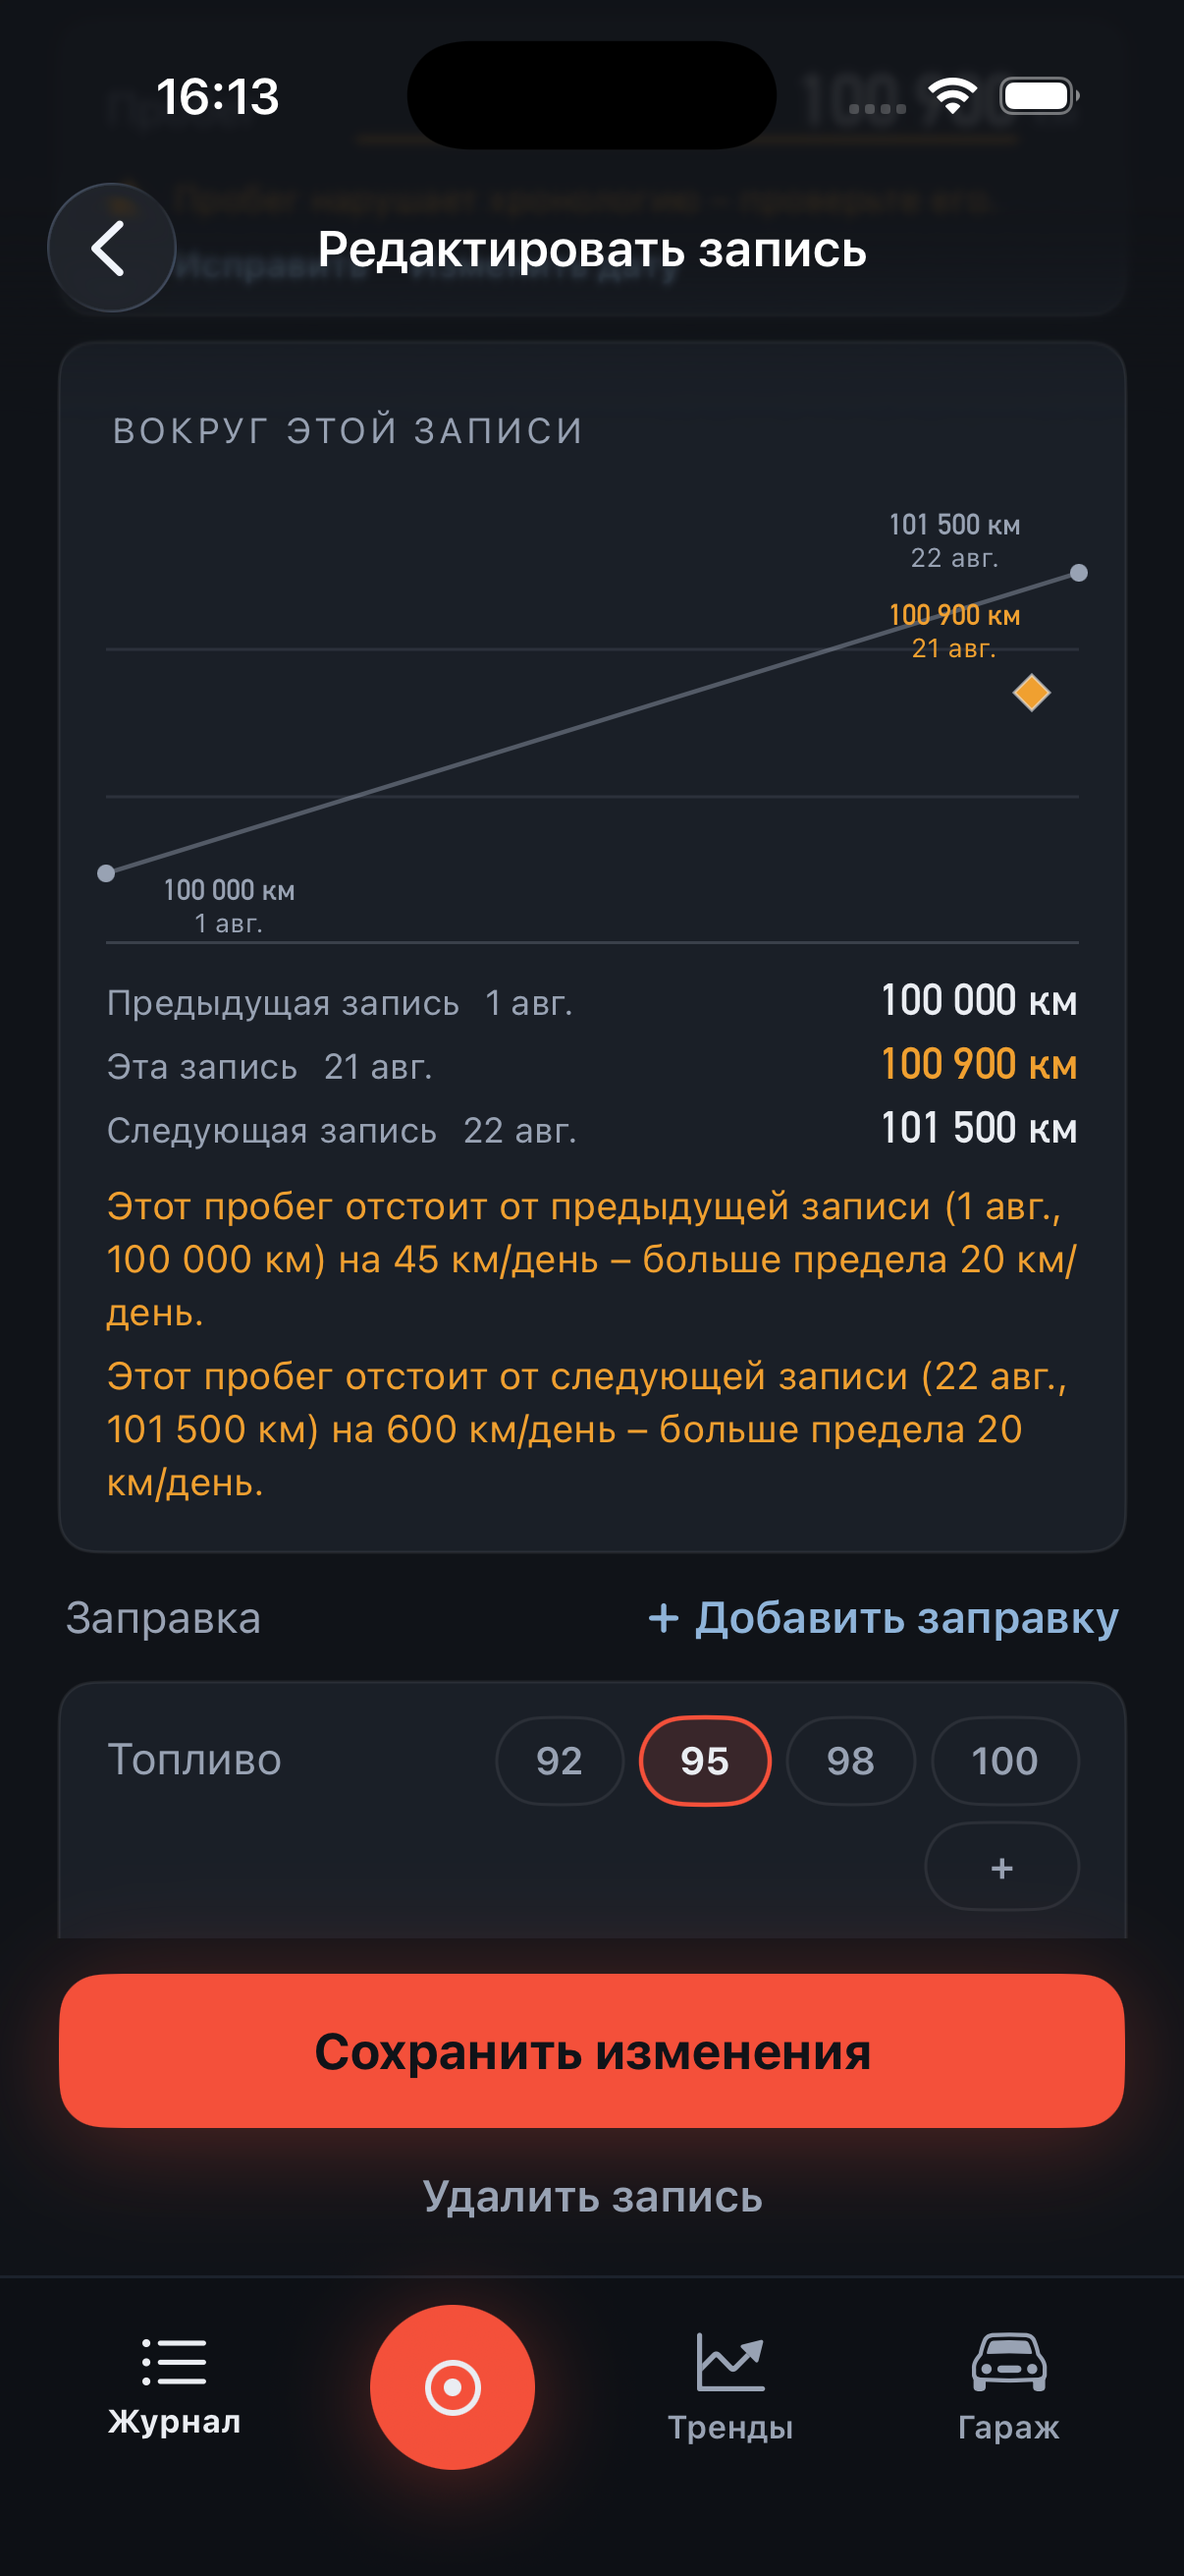
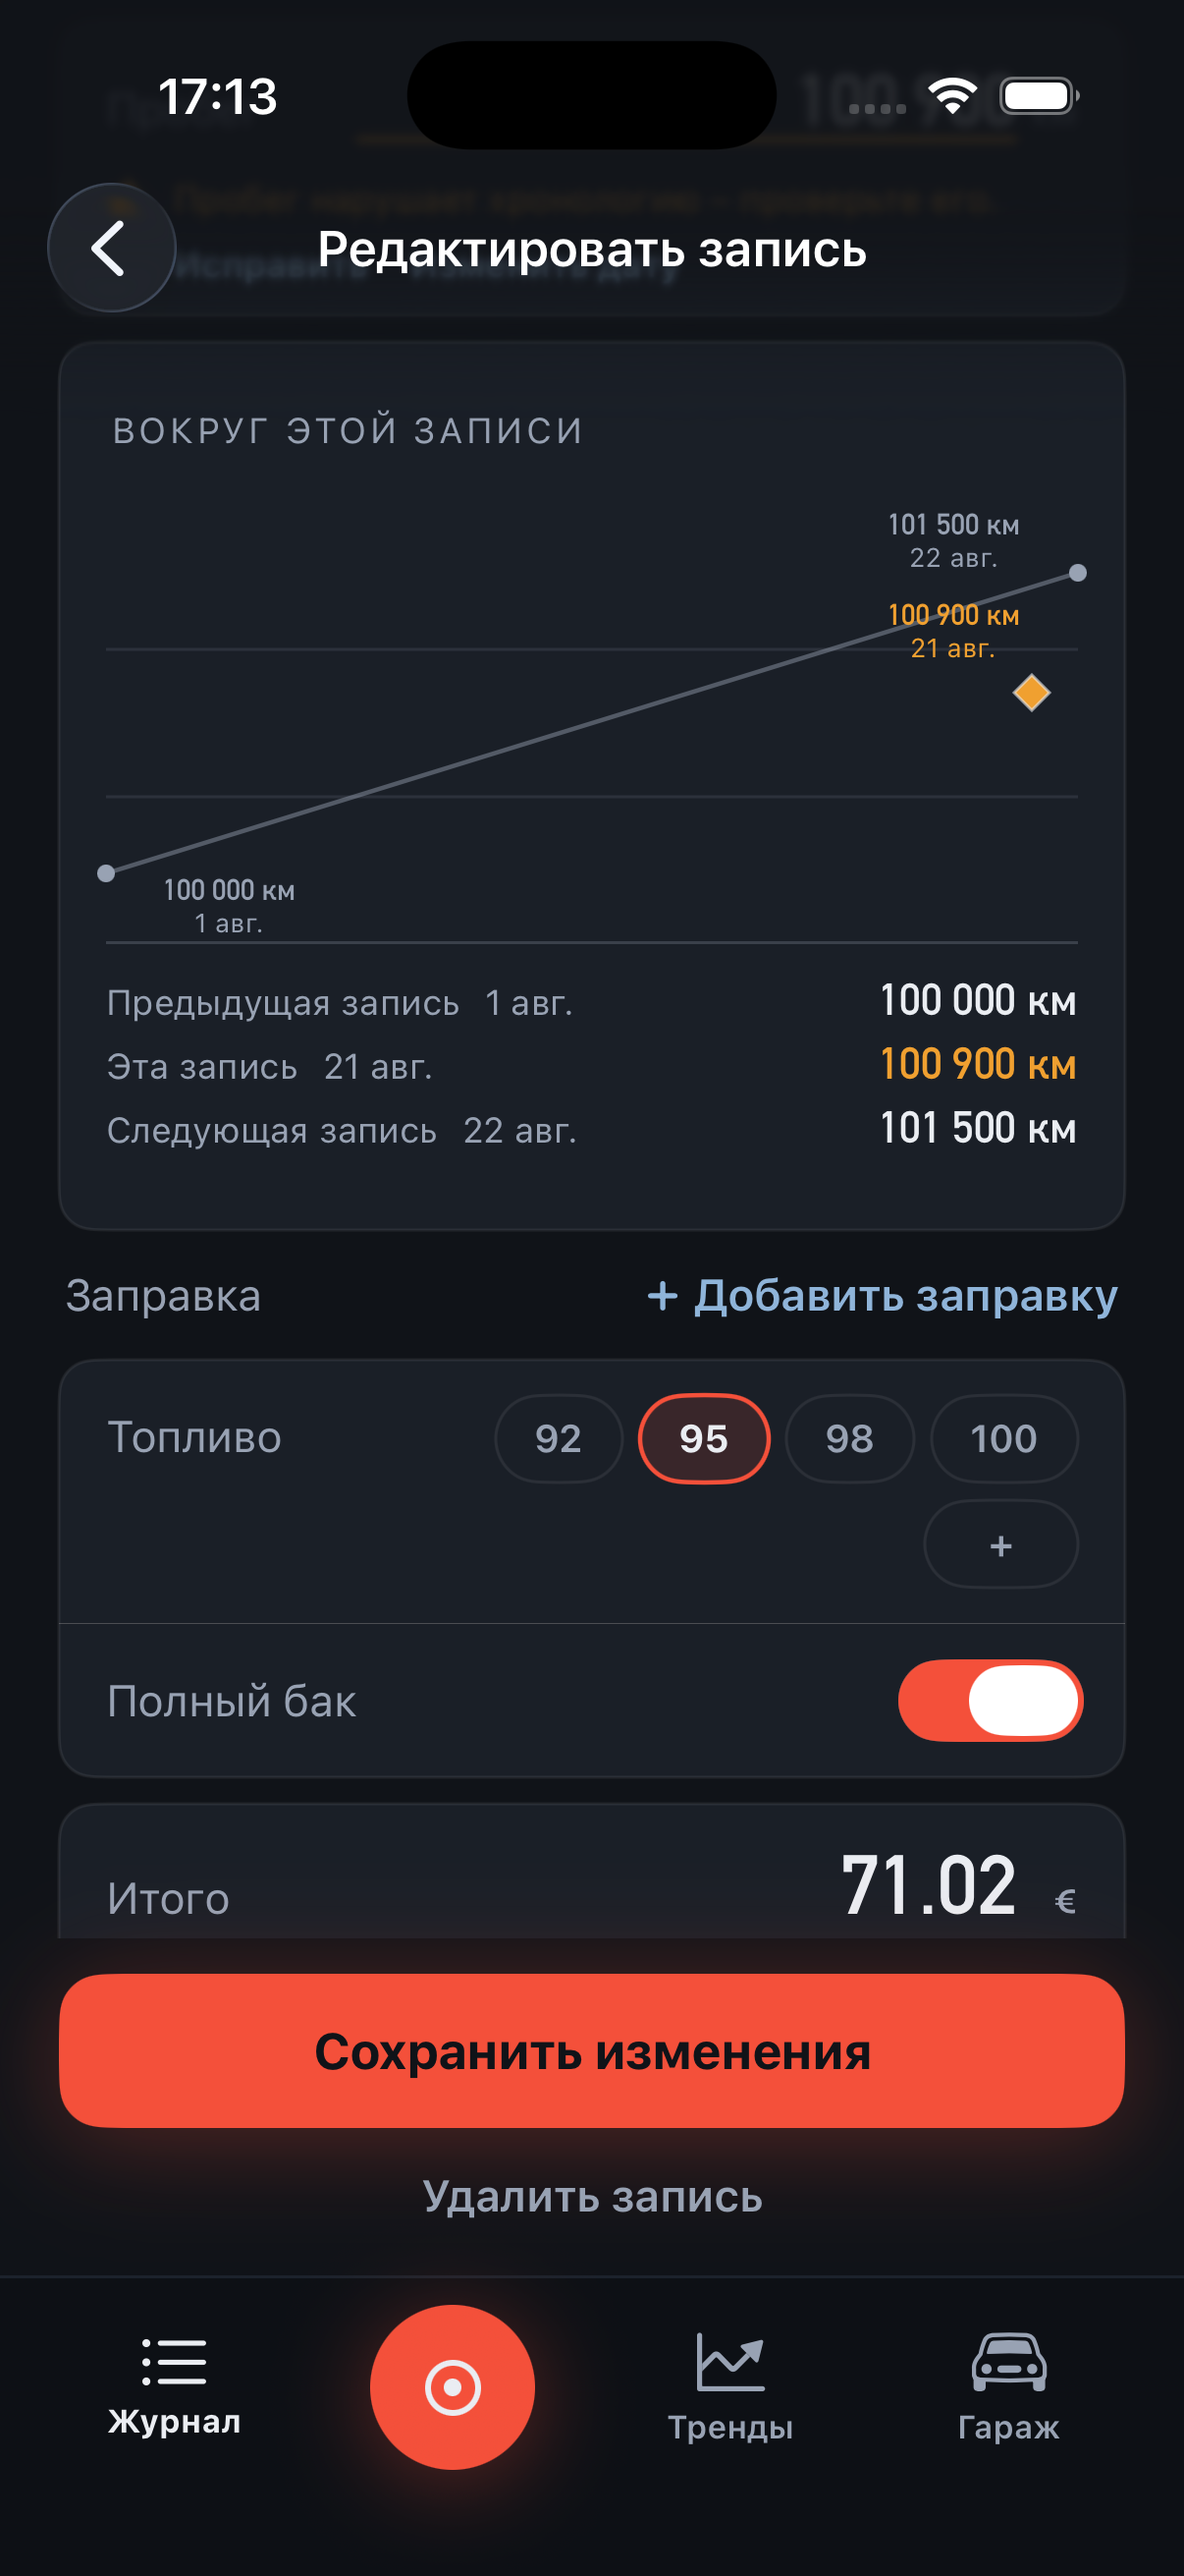
RV.188: the panel shows the chart and the numbers, not a paragraph about them
Product owner, pointing at the two amber sentences: remove these.

  "This reading is 45 km/day from the previous entry (Aug 1, 100 000 km)
   - over the 20 km/day limit."

That was the both-`.none` branch, and it restated in prose exactly what
the three bracket rows directly above it already say in figures. The
chart labels each point, the rows give previous / this / next with their
dates and readings, and the row's amber banner above the card carries the
next step (hard rule 7) - so the paragraph was the panel's bulk and none
of its meaning. On a phone it also pushed the entry's own fields off
screen.

Removing it made a whole pipeline dead, so that goes too rather than
sitting unread: TimelineNeighbourhood.Culprit, culprits(from:), both
sentence builders, and the seven catalogue keys behind them.

EditEntryNeighbourhoodUITests now asserts the ABSENCE of the two
statement identifiers - and that "This entry" and "Previous entry" are
still on screen - so re-adding the prose is a deliberate decision rather
than a drift.

This reverts the earlier label removal (3ba8933 reverted dd8f717): the
chart's point labels were the wrong thing to cut and are back.

Gates: swiftlint from root 0, app build 0,
EditEntryNeighbourhoodUITests 4/4, FlaggedEntriesUITests 10/10.
Screenshots EN+RU re-shot and opened.

diff --git a/ios/App/Sources/EditEntry/TimelineNeighbourhood.swift b/ios/App/Sources/EditEntry/TimelineNeighbourhood.swift
@@ -43,28 +43,6 @@ struct TimelineNeighbourhood: Equatable {
     let previous: Neighbour?
     /// The immediate next neighbour, nil when the entry is the newest.
     let next: Neighbour?
-    /// The failed comparisons the validator reported, each carrying the side it
-    /// failed against and the neighbour's facts. The card renders one sentence
-    /// per culprit: an empty range with two disagreeing neighbours has two
-    /// culprits, and naming them all is the decision (RV.188) - naming only the
-    /// first would hide the entry the user must actually fix.
-    let culprits: [Culprit]
-
-    /// One failed comparison, as the card needs to name the pair.
-    struct Culprit: Equatable {
-        let side: TimelineValidator.NeighbourSide
-        let neighbourDate: Date
-        let neighbourOdometer: Int
-        let reason: Reason
-
-        enum Reason: Equatable {
-            /// CHECK 1: the reading is out of order against this neighbour.
-            case order
-            /// CHECK 2: the implied pace against this neighbour is over the limit.
-            case pace(kmPerDay: Double, limit: Double)
-        }
-    }
-
     /// The point immediately before the offending one, when one exists.
     var previousPoint: Point? {
         guard let index = offendingIndex, index > 0 else { return nil }
@@ -143,41 +121,7 @@ extension ManualFillUpFormState {
             validRange: validRange,
             points: points,
             previous: behind.first,
-            next: ahead.first,
-            culprits: Self.culprits(from: validation.flags,
-                                    previous: behind.first, next: ahead.first))
-    }
-
-    /// Resolves each validator flag to the neighbour it failed against. A flag
-    /// whose side has no odometer-bearing neighbour is dropped rather than
-    /// guessed at (the validator only reports a side it actually walked).
-    private static func culprits(
-        from flags: [TimelineValidator.Flag],
-        previous: TimelineNeighbourhood.Neighbour?,
-        next: TimelineNeighbourhood.Neighbour?
-    ) -> [TimelineNeighbourhood.Culprit] {
-        flags.compactMap { flag in
-            switch flag.detail {
-            case .order(let side, _, _, _, _):
-                return culprit(side: side, previous: previous, next: next, reason: .order)
-            case .pace(let side, let kmPerDay, let limit):
-                return culprit(side: side, previous: previous, next: next,
-                               reason: .pace(kmPerDay: kmPerDay, limit: limit))
-            }
-        }
-    }
-
-    private static func culprit(
-        side: TimelineValidator.NeighbourSide,
-        previous: TimelineNeighbourhood.Neighbour?,
-        next: TimelineNeighbourhood.Neighbour?,
-        reason: TimelineNeighbourhood.Culprit.Reason
-    ) -> TimelineNeighbourhood.Culprit? {
-        let neighbour = side == .previous ? previous : next
-        guard let neighbour else { return nil }
-        return TimelineNeighbourhood.Culprit(
-            side: side, neighbourDate: neighbour.date,
-            neighbourOdometer: neighbour.odometer, reason: reason)
+            next: ahead.first)
     }
 }
 
@@ -262,50 +206,6 @@ enum TimelineNeighbourhoodSentences {
                               odometerText, lower)
             case (nil, nil):
                 return nil
-            }
-        }
-    }
-
-    /// Both sides `.none`: the neighbourhood itself is inconsistent, so neither
-    /// single field can be called out. One sentence instead of two, never a
-    /// blank panel.
-    static var inconsistentNeighbourhood: String {
-        L10n.localize("The entries around this one can't all be right – no odometer or date fits between them.")
-    }
-
-    /// One failed comparison, named: the entry and the neighbour it failed
-    /// against, with the numbers that failed. The `.none`-both case renders one
-    /// of these per culprit (RV.188) instead of the generic gesture, so the
-    /// user is told which pair to check. Full localised phrase per unit, never a
-    /// unit label spliced onto a shared stem (hard rule 10).
-    static func culprit(_ culprit: TimelineNeighbourhood.Culprit,
-                        unit: DistanceUnit) -> String {
-        let neighbourText = TimelineNeighbourhoodCard.bracketValue(
-            date: culprit.neighbourDate, odometer: culprit.neighbourOdometer, unit: unit)
-        switch culprit.reason {
-        case .order:
-            switch culprit.side {
-            case .previous:
-                return String(format: L10n.localize("This reading conflicts with the previous entry (%@)."),
-                              neighbourText)
-            case .next:
-                return String(format: L10n.localize("This reading conflicts with the next entry (%@)."),
-                              neighbourText)
-            }
-        case .pace(let kmPerDay, let limit):
-            let paceText = OdometerFormat.grouped(Int(kmPerDay.rounded()))
-            let limitText = OdometerFormat.grouped(Int(limit.rounded()))
-            switch culprit.side {
-            case .previous:
-                return String(format: L10n.localize(unit == .km
-                    ? "This reading is %1$@ km/day from the previous entry (%2$@) – over the %3$@ km/day limit."
-                    : "This reading is %1$@ mi/day from the previous entry (%2$@) – over the %3$@ mi/day limit."),
-                              paceText, neighbourText, limitText)
-            case .next:
-                return String(format: L10n.localize(unit == .km
-                    ? "This reading is %1$@ km/day from the next entry (%2$@) – over the %3$@ km/day limit."
-                    : "This reading is %1$@ mi/day from the next entry (%2$@) – over the %3$@ mi/day limit."),
-                              paceText, neighbourText, limitText)
             }
         }
     }

diff --git a/ios/App/UITests/EditEntryNeighbourhoodUITests.swift b/ios/App/UITests/EditEntryNeighbourhoodUITests.swift
@@ -88,25 +88,24 @@ final class EditEntryNeighbourhoodUITests: XCTestCase {
             "the chart points must also carry a date")
     }
 
-    /// RV.188 item 3: the both-`.none` case names the offending PAIR (here the
-    /// previous and the next, both over the pace limit).
-    func testNeighbourhoodMessageNamesTheFailingPair() {
+    /// The both-`.none` case says nothing in prose: the chart and the three
+    /// bracket rows carry the reading and its neighbours, and the row's banner
+    /// above carries the next step. Two amber paragraphs restating the same
+    /// numbers in words were the panel's bulk and none of its meaning (product
+    /// owner, 2026-09-10). Asserted as an ABSENCE so re-adding them is a
+    /// deliberate decision, not a drift.
+    func testTheInconsistentCaseRendersNoProseParagraph() {
         let app = launchOnMiddleConflict()
         revealCard(app)
-        let culprits = app.staticTexts.matching(identifier: "neighbourhoodCulpritStatement")
-        XCTAssertTrue(culprits.firstMatch.waitForExistence(timeout: 10),
-                      "the inconsistent case must name its culprits")
-        XCTAssertGreaterThanOrEqual(culprits.count, 2,
-                                    "both failing comparisons must be named, not just the first")
-        XCTAssertTrue(culprits.containing(
-            NSPredicate(format: "label CONTAINS %@", "previous entry")).firstMatch.exists,
-            "the previous-side pair must be named")
-        XCTAssertTrue(culprits.containing(
-            NSPredicate(format: "label CONTAINS %@", "next entry")).firstMatch.exists,
-            "the next-side pair must be named")
-        XCTAssertTrue(culprits.containing(
-            NSPredicate(format: "label CONTAINS %@", grouped(100_000))).firstMatch.exists,
-            "the named previous pair must carry its odometer")
+        XCTAssertTrue(app.otherElements["neighbourhoodChart"].waitForExistence(timeout: 10),
+                      "the chart and its bracket rows are the explanation")
+        XCTAssertEqual(app.staticTexts.matching(
+            identifier: "neighbourhoodCulpritStatement").count, 0)
+        XCTAssertEqual(app.staticTexts.matching(
+            identifier: "neighbourhoodInconsistentStatement").count, 0)
+        // The numbers are still on screen - in the rows, where they belong.
+        XCTAssertTrue(app.staticTexts["This entry"].exists)
+        XCTAssertTrue(app.staticTexts["Previous entry"].exists)
     }
 
     /// RV.188 item 4: a flagged newest entry has no next, and the panel renders

diff --git a/ios/App/Sources/EditEntry/TimelineNeighbourhoodCard.swift b/ios/App/Sources/EditEntry/TimelineNeighbourhoodCard.swift
@@ -120,21 +120,14 @@ struct TimelineNeighbourhoodCard: View {
                                        distanceUnit: DistanceUnit) -> [Statement] {
         switch (model.validRange.odometer, model.validRange.dates) {
         case (.none, .none):
-            // The dead end RV.188 fixes: name every failed comparison rather
-            // than gesturing at "the entries around this one". The validator
-            // carried the side of each flag, so each sentence points at the
-            // pair that disagrees. The generic sentence remains only as the
-            // no-culprit fallback - never a blank panel.
-            guard !model.culprits.isEmpty else {
-                return [Statement(text: TimelineNeighbourhoodSentences.inconsistentNeighbourhood,
-                                  identifier: "neighbourhoodInconsistentStatement",
-                                  isAttention: true)]
-            }
-            return model.culprits.map { culprit in
-                Statement(text: TimelineNeighbourhoodSentences.culprit(culprit, unit: distanceUnit),
-                          identifier: "neighbourhoodCulpritStatement",
-                          isAttention: true)
-            }
+            // Nothing to say in prose. When neither field has a valid range the
+            // chart and the three bracket rows ARE the explanation - the reading
+            // that sits off the line, with its neighbours' dates and readings
+            // beside it - and the row's amber banner above already carries the
+            // next step (hard rule 7, docs/ERRORS.md -> Confirm -> F9a). A
+            // paragraph restating the same two numbers in words was the panel's
+            // bulk and none of its meaning (product owner, 2026-09-10).
+            return []
         default:
             let unit = distanceUnit
             let dateText = EntryDateText.dayMonth(model.entryDate)
